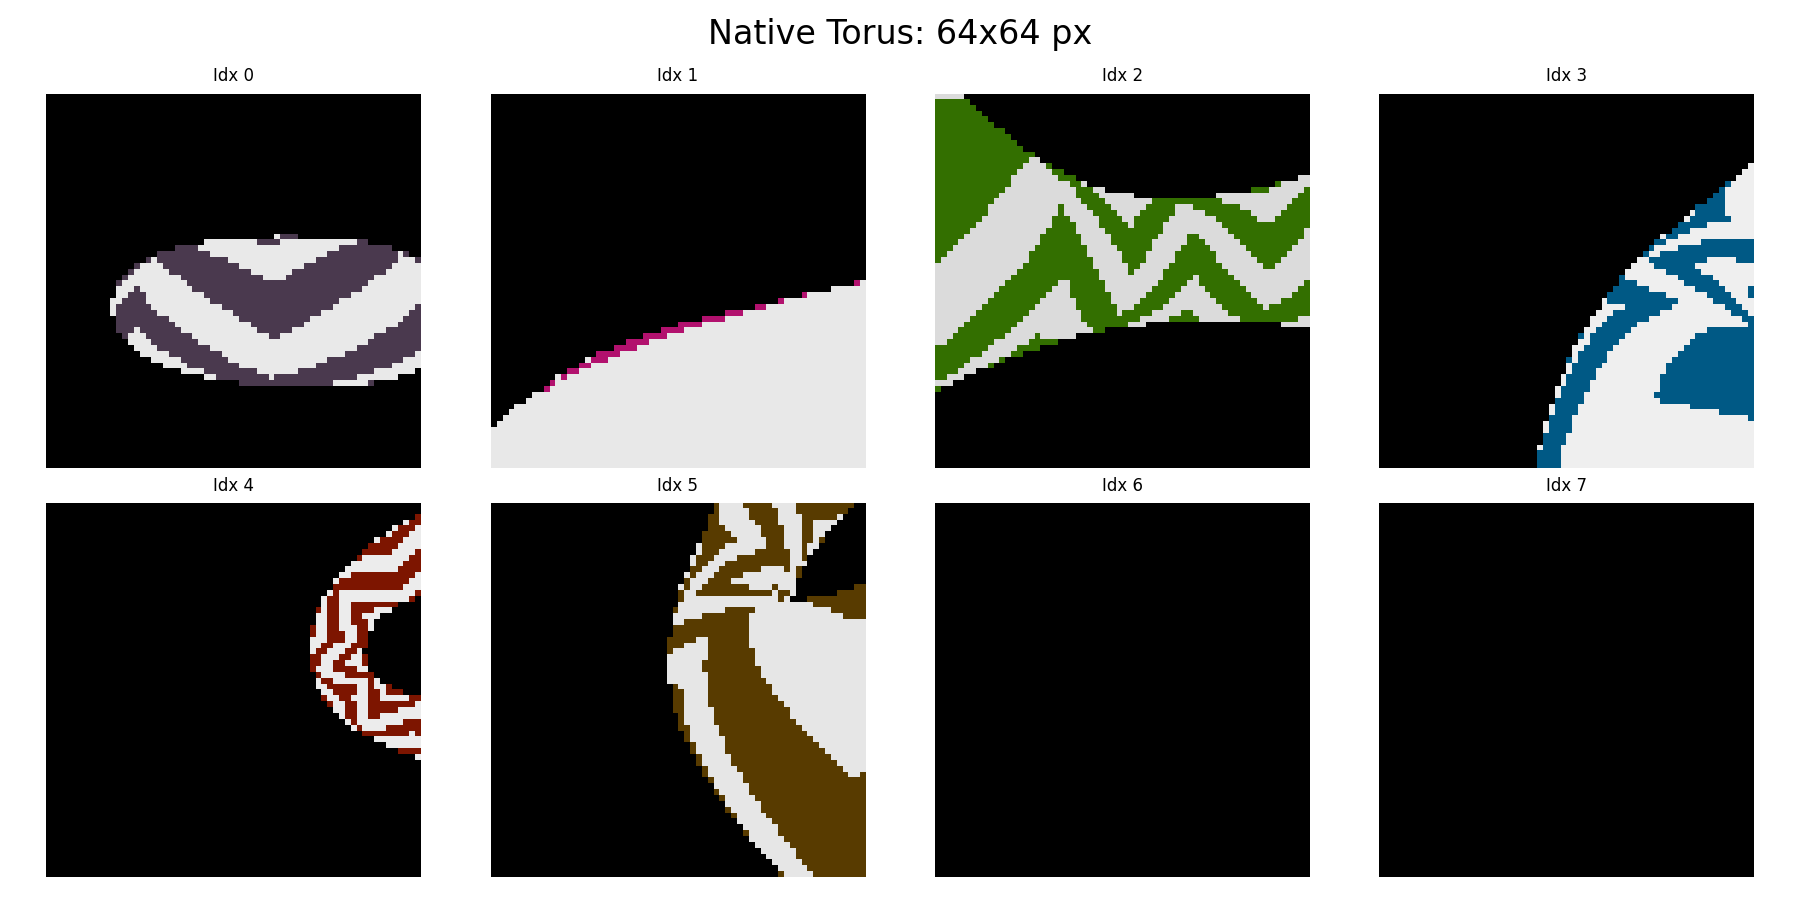
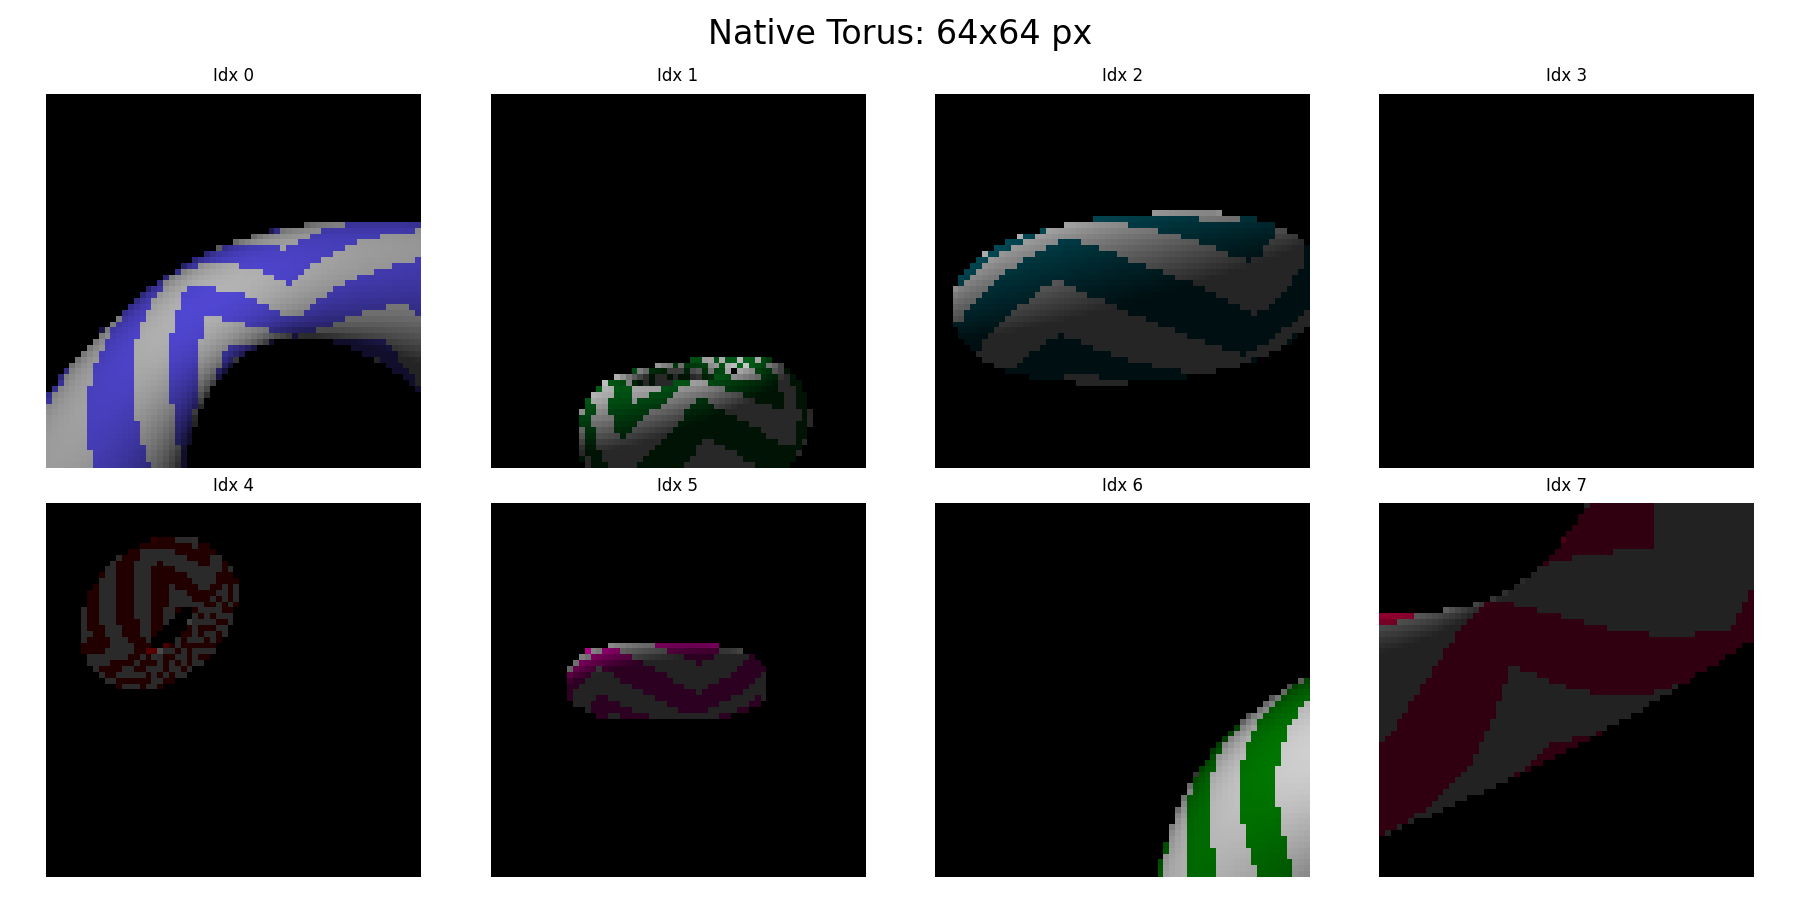
donuts for topological learning?

diff --git a/dataset_torus_native.py b/dataset_torus_native.py
@@ -7,114 +7,121 @@ import os
 class TorusRaymarcher:
     def __init__(self, device='cuda'):
         self.device = device
+        # Torus geometry constants
+        self.R_major = 1.0
+        self.r_minor = 0.4
 
     def get_camera_rays(self, batch_size, resolution):
         """
-        Generates camera rays with smart targeting.
-        Mixes 'Full Object' shots and 'Macro Surface' shots.
+        Generates camera rays using a topology-aware cylindrical sampler.
+        Ensures camera is never inside the object and always looks at geometry.
         """
-        # 1. Camera Intrinsics (Assume FOV ~60-90 deg)
-        # Screen coordinates
+        # 1. Camera Intrinsics
+        # Screen coordinates [H, W]
         i, j = torch.meshgrid(
             torch.linspace(-1, 1, resolution, device=self.device),
             torch.linspace(-1, 1, resolution, device=self.device),
             indexing='ij'
-        ) # [H, W]
+        ) 
         
         # Rays in camera space (Z-forward)
-        # We use a slightly wider implicit FOV to ensure we catch things close up
         dirs_cam = torch.stack([j, -i, torch.ones_like(i)], dim=-1).unsqueeze(0).expand(batch_size, -1, -1, -1)
         dirs_cam = F.normalize(dirs_cam, dim=-1)
         
-        # 2. Camera Extrinsics (Targeting Logic)
+        # 2. Camera Extrinsics: Topological Sampling
         
-        # Mode Selection: 60% Macro (Close-up), 40% Full View
-        is_macro = torch.rand(batch_size, device=self.device) < 0.6
+        # We sample in Cylindrical Coordinates (rho, phi, y) relative to the central Y-axis.
+        # To avoid the solid torus, we sample two safe zones:
+        # Zone A (Hole): Inside the ring (rho < R - r)
+        # Zone B (Exterior): Outside the ring (rho > R + r)
         
-        # -- Target Point Calculation --
-        # Full View: Look at (0,0,0)
-        # Macro View: Look at a random point on the major ring (Radius=1.0)
-        target_angle = torch.rand(batch_size, device=self.device) * 2 * math.pi
+        # Probability of being in the hole (Macro texture shots) vs Outside (Shape shots)
+        in_hole = torch.rand(batch_size, device=self.device) < 0.3
         
-        tx = torch.cos(target_angle) # Radius 1.0
-        tz = torch.sin(target_angle)
+        # -- Radius (rho) --
+        # Hole: 0.0 to (R - r - margin). R=1, r=0.4 => max safe rho ~0.5
+        rho_hole = torch.rand(batch_size, device=self.device) * 0.5 
         
-        target = torch.zeros(batch_size, 3, device=self.device)
-        # Apply macro targets
-        target[is_macro, 0] = tx[is_macro]
-        target[is_macro, 2] = tz[is_macro]
-        # Jitter Y target slightly for macro to look at top/bottom of tube surface
-        target[is_macro, 1] = (torch.rand(is_macro.sum(), device=self.device) - 0.5) * 0.2
+        # Exterior: (R + r + margin) to 3.5. min safe rho ~1.5
+        # We bias towards closer shots for detail
+        rho_ext = torch.rand(batch_size, device=self.device) * 2.0 + 1.5
         
-        # -- Camera Position Calculation --
-        # Distances relative to the TARGET
-        # Full: Far enough to see whole ring (2.5 to 4.0)
-        # Macro: Close enough to see texture, safe enough not to clip (0.6 to 1.2)
-        # Note: Tube radius is 0.4. Dist 0.6 leaves 0.2 clearance.
-        dist_full = torch.rand(batch_size, device=self.device) * 1.5 + 2.5
-        dist_macro = torch.rand(batch_size, device=self.device) * 0.6 + 0.6
-        dist = torch.where(is_macro, dist_macro, dist_full)
+        rho = torch.where(in_hole, rho_hole, rho_ext)
         
-        # Orbit around the TARGET
-        theta = torch.rand(batch_size, device=self.device) * 2 * math.pi
-        # Clamp phi to avoid degenerate LookAt (poles)
-        phi = torch.rand(batch_size, device=self.device) * 2.8 + 0.17 # ~10 to 170 degrees
+        # -- Height (y) --
+        # "Displaced up and down the central axis"
+        # We want diversity: some planar shots (y~0), some high-angle (y~2)
+        y_cam = (torch.rand(batch_size, device=self.device) * 4.0 - 2.0) # [-2, 2]
         
-        cx = dist * torch.sin(phi) * torch.cos(theta)
-        cy = dist * torch.cos(phi)
-        cz = dist * torch.sin(phi) * torch.sin(theta)
-        offset = torch.stack([cx, cy, cz], dim=1)
+        # -- Angle (phi) --
+        # "Displaced along the arc"
+        phi_cam = torch.rand(batch_size, device=self.device) * 2 * math.pi
         
-        origin = target + offset # [B, 3]
+        # Convert to Cartesian Camera Position
+        cx = rho * torch.cos(phi_cam)
+        cy = y_cam
+        cz = rho * torch.sin(phi_cam)
+        origin = torch.stack([cx, cy, cz], dim=1) # [B, 3]
+        
+        # 3. Targeting Strategy (LookAt)
+        # We must look at the spine (the central ring of the tube).
+        # Spine points are at (cos(theta), 0, sin(theta)).
+        
+        # Heuristic: Look at the spine point roughly closest to the camera.
+        # If we look at the far side, we get occlusion or view-through-hole (which is cool but harder to control).
+        # Looking at the nearest spine point guarantees pixel coverage.
+        
+        # For hole shots (rho < 1), looking at phi_cam means looking radially OUTWARD at the wall. (Correct)
+        # For ext shots (rho > 1), looking at phi_cam means looking radially INWARD at the wall. (Correct)
+        
+        # Add slight jitter to the target angle so we don't always look perfectly center-mass
+        target_jitter = (torch.rand(batch_size, device=self.device) - 0.5) * 0.5 # +/- 0.25 rad
+        theta_tgt = phi_cam + target_jitter
+        
+        tx = self.R_major * torch.cos(theta_tgt)
+        ty = torch.zeros_like(tx) + (torch.rand(batch_size, device=self.device) - 0.5) * 0.2 # Slight vertical jitter
+        tz = self.R_major * torch.sin(theta_tgt)
+        
+        target = torch.stack([tx, ty, tz], dim=1)
         
         # -- LookAt Matrix --
-        # Forward = Direction from Camera to Target
         forward = F.normalize(target - origin, dim=1)
         
-        # Up vector (World Up = 0,1,0)
-        world_up = torch.tensor([0.0, 1.0, 0.0], device=self.device).view(1, 3).expand(batch_size, -1)
+        # Standard Up is (0,1,0), but if looking straight down/up, this is unstable.
+        # We use a robust up vector calculation.
+        world_up = torch.tensor([0.0, 1.0, 0.0], device=self.device).expand(batch_size, -1)
         
-        # Standard Gram-Schmidt
-        right = F.normalize(torch.cross(forward, world_up), dim=1)
-        up = torch.cross(right, forward)
+        # If forward is too close to world_up, perturb world_up
+        # (Dot product check omitted for brevity in simple renderer, usually rare with random sampling)
         
-        # Transform rays to World Space
-        R = torch.stack([right, up, forward], dim=2) # [B, 3, 3]
+        # Fix: Explicit dim=1 for torch.cross to suppress warnings
+        right = F.normalize(torch.cross(forward, world_up, dim=1), dim=1)
+        up = torch.cross(right, forward, dim=1)
         
-        # Apply rotation: [B, H*W, 3] @ [B, 3, 3]
+        R = torch.stack([right, up, forward], dim=2) 
+        
+        # Transform rays
         rays_world = torch.bmm(dirs_cam.view(batch_size, -1, 3), R).view(batch_size, resolution, resolution, 3)
         
         return origin, rays_world
 
-    def sdf_torus(self, p, R_major=1.0, r_minor=0.4):
-        """
-        Signed Distance Function for a Torus lying on XZ plane.
-        """
+    def sdf_torus(self, p):
         # Distance to the ring in XZ plane
-        q_xy = torch.norm(p[..., [0, 2]], dim=-1) - R_major
+        q_xy = torch.norm(p[..., [0, 2]], dim=-1) - self.R_major
         q_z = p[..., 1]
-        
-        # Distance to the tube surface
-        d = torch.sqrt(q_xy**2 + q_z**2) - r_minor
+        d = torch.sqrt(q_xy**2 + q_z**2) - self.r_minor
         return d
 
     def intersect(self, origin, rays, max_steps=64):
-        """
-        Sphere tracing.
-        origin: [B, 3]
-        rays: [B, H, W, 3]
-        """
         B, H, W, _ = rays.shape
-        
-        # Flatten for marching
         o = origin.view(B, 1, 3).expand(-1, H*W, -1).reshape(-1, 3)
         d = rays.view(-1, 3)
         
         t = torch.zeros(o.shape[0], device=self.device)
         active_mask = torch.ones_like(t, dtype=torch.bool)
         
-        # Optimization: Don't march rays that look away from bounding sphere (approx)
-        # But for torus, just march everything, it's cheap enough.
+        # Optimization: Bounding Sphere for early exit? 
+        # For simple batch, simple marching is often faster than python-loop overhead of complex checks.
         
         for _ in range(max_steps):
             if not active_mask.any(): break
@@ -122,38 +129,25 @@ class TorusRaymarcher:
             p = o + d * t.unsqueeze(-1)
             dist = self.sdf_torus(p)
             
-            # Update t only for active rays
-            # We use `where` to avoid inplace ops on masked tensors which can be slow/tricky
-            t_next = t + dist
-            t = torch.where(active_mask, t_next, t)
+            t = torch.where(active_mask, t + dist, t)
             
-            # Check convergence
             hit = dist < 0.001
-            miss = t > 8.0 # Tighter bound than 10.0 for speed
-            
-            # Update mask
+            miss = t > 6.0 # Max render distance
             active_mask = active_mask & (~hit) & (~miss)
         
         p_final = o + d * t.unsqueeze(-1)
-        
-        # Final validity check
         final_dist = self.sdf_torus(p_final)
         valid_mask = final_dist < 0.01
         
         return p_final, valid_mask.view(B, H, W)
 
-    def get_uv(self, p, R_major=1.0):
-        """
-        Map 3D points on torus surface to UVs.
-        """
-        # U: Angle around Y axis (Major)
+    def get_uv(self, p):
+        # U: Major Angle
         u = torch.atan2(p[..., 2], p[..., 0]) / (2 * math.pi) + 0.5
-        
-        # V: Angle around the tube center (Minor)
-        q_xy = torch.norm(p[..., [0, 2]], dim=-1) - R_major
+        # V: Minor Angle
+        q_xy = torch.norm(p[..., [0, 2]], dim=-1) - self.R_major
         q_z = p[..., 1]
         v = torch.atan2(q_z, q_xy) / (2 * math.pi) + 0.5
-        
         return u, v
 
     def lab_to_rgb(self, L, a, b):
@@ -173,43 +167,66 @@ class TorusRaymarcher:
         B = valid_mask.shape[0]
         H = W = resolution
         
-        # 1. Colors
-        L_bright = torch.rand(B, 1, device=self.device) * 10.0 + 85.0
+        # Randomize Colors
+        L_bright = torch.rand(B, 1, device=self.device) * 20.0 + 70.0 # Varying brightness
         c_bright = self.lab_to_rgb(L_bright, torch.zeros_like(L_bright), torch.zeros_like(L_bright))
         
+        # Random saturated colors
         L_dark = torch.rand(B, 1, device=self.device) * 30.0 + 20.0
-        a_dark = (torch.rand(B, 1, device=self.device) - 0.5) * 160.0
-        b_dark = (torch.rand(B, 1, device=self.device) - 0.5) * 160.0
+        # Random hue rotation in Lab
+        hue = torch.rand(B, 1, device=self.device) * 2 * math.pi
+        chroma = torch.rand(B, 1, device=self.device) * 50.0 + 60.0 # High saturation
+        a_dark = chroma * torch.cos(hue)
+        b_dark = chroma * torch.sin(hue)
         c_dark = self.lab_to_rgb(L_dark, a_dark, b_dark)
         
-        # 2. UVs & Pattern
+        # Texture
         u, v = self.get_uv(p)
         
-        # Slightly higher frequency for macro details
-        u_freq = 12.0
-        v_freq = 6.0 
+        # Randomized Frequency per batch item
+        # FIX: Ensure shape is (B, 1, 1) for broadcasting against (B, H, W)
+        freq_u = torch.randint(8, 16, (B, 1, 1), device=self.device).float()
+        freq_v = torch.randint(4, 8, (B, 1, 1), device=self.device).float()
         
-        u_scaled = u * u_freq
-        v_scaled = v * v_freq
+        u_scaled = u * freq_u
+        v_scaled = v * freq_v
         
+        # Herringbone-ish pattern
         col_idx = torch.floor(u_scaled)
-        
         stripe_freq = 2.0 * math.pi
         pat_even = torch.cos((u_scaled + v_scaled) * stripe_freq)
         pat_odd  = torch.cos((u_scaled - v_scaled) * stripe_freq)
-        
         is_even = (col_idx % 2 == 0)
         pattern = torch.where(is_even, pat_even, pat_odd)
         is_dark = pattern > 0
         
-        # 3. Composite
-        c_bright_expanded = c_bright.view(B, 1, 1, 3).expand(-1, H, W, -1)
-        c_dark_expanded = c_dark.view(B, 1, 1, 3).expand(-1, H, W, -1)
+        # Composite
+        c_bright_exp = c_bright.view(B, 1, 1, 3).expand(-1, H, W, -1)
+        c_dark_exp = c_dark.view(B, 1, 1, 3).expand(-1, H, W, -1)
         
-        surface_color = torch.where(is_dark.unsqueeze(-1), c_dark_expanded, c_bright_expanded)
+        surface_color = torch.where(is_dark.unsqueeze(-1), c_dark_exp, c_bright_exp)
         
-        final_img = torch.where(valid_mask.unsqueeze(-1), surface_color, torch.zeros_like(surface_color))
-        return final_img
+        # Simple diffuse lighting for depth cue
+        # Normal approx? p is on torus surface.
+        # Normal of torus at p:
+        # Center of tube section for p is:
+        # cp_xz = normalize(p_xz) * R_major
+        cp = p.clone()
+        p_xz_norm = F.normalize(p[..., [0, 2]], dim=-1)
+        cp[..., 0] = p_xz_norm[..., 0] * self.R_major
+        cp[..., 1] = 0
+        cp[..., 2] = p_xz_norm[..., 1] * self.R_major
+        
+        normal = F.normalize(p - cp, dim=-1)
+        
+        # Light dir: from camera (headlamp)
+        # Actually fixed light is better for structure training
+        light_dir = F.normalize(torch.tensor([0.5, 1.0, 0.5], device=self.device), dim=0).view(1, 1, 1, 3)
+        diffuse = torch.sum(normal * light_dir, dim=-1, keepdim=True).clamp(0.2, 1.0)
+        
+        final_color = surface_color * diffuse
+        
+        return torch.where(valid_mask.unsqueeze(-1), final_color, torch.zeros_like(final_color))
 
 class TorusIterator:
     def __init__(self, device='cuda'):
@@ -221,18 +238,3 @@ class TorusIterator:
         p_reshaped = p.view(batch_size, resolution, resolution, 3)
         images = self.marcher.shade_batch(p_reshaped, mask, resolution)
         return images.permute(0, 3, 1, 2)
-
-if __name__ == "__main__":
-    # Self-test if run directly
-    import matplotlib.pyplot as plt
-    iterator = TorusIterator(device='cuda' if torch.cuda.is_available() else 'cpu')
-    os.makedirs("torus_test", exist_ok=True)
-    img = iterator.generate_batch(16, 64)
-    # Save a grid
-    grid = img.permute(0, 2, 3, 1).cpu().numpy()
-    fig, axes = plt.subplots(4, 4, figsize=(8, 8))
-    for i, ax in enumerate(axes.flat):
-        ax.imshow(grid[i])
-        ax.axis('off')
-    plt.savefig("torus_test/test_grid.png")
-    print("Test grid saved to torus_test/test_grid.png")
